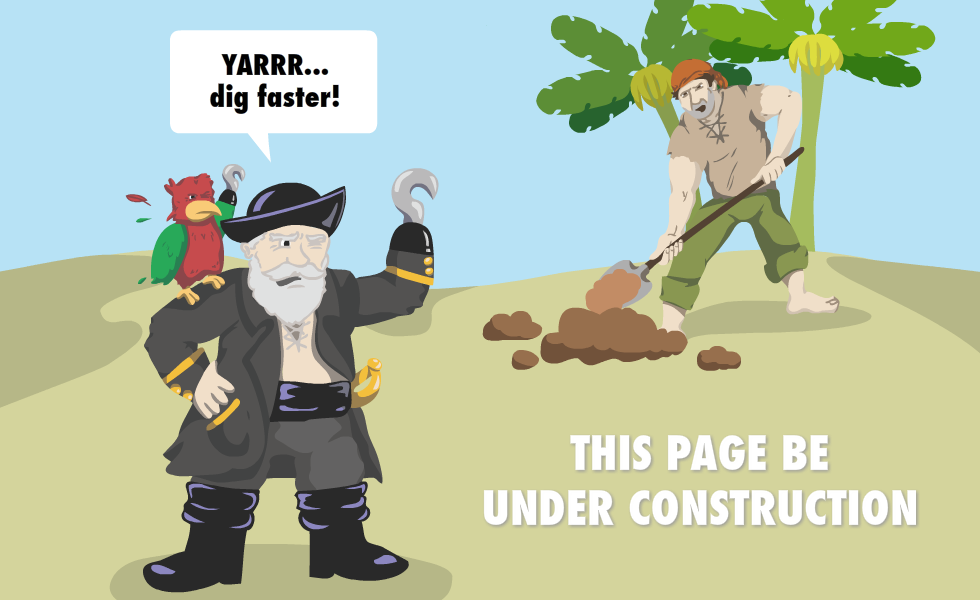
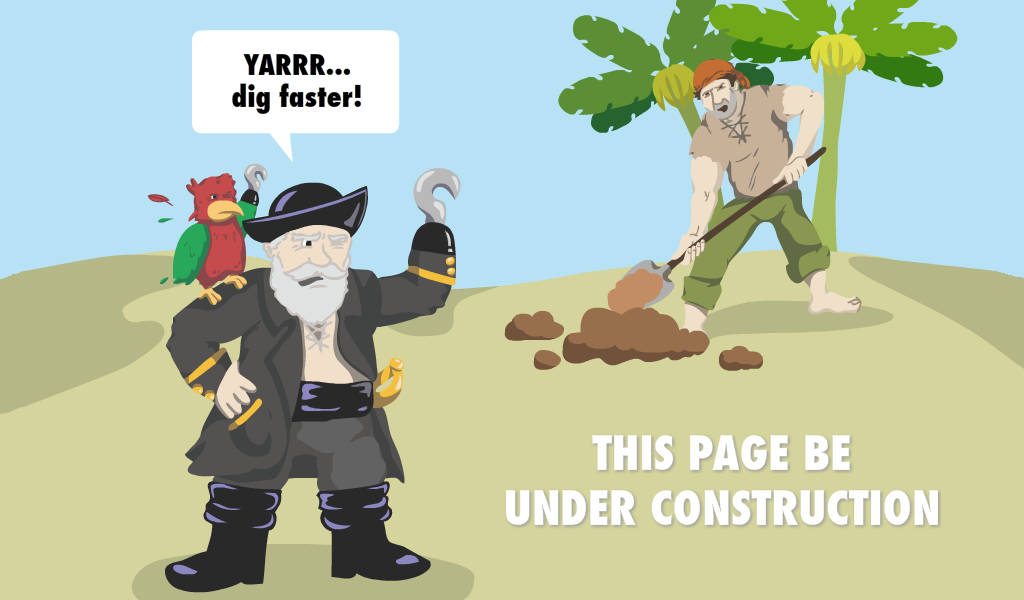
created accordion effect on gallery, edited the piratehook_1 image

diff --git a/js/donnaalmendrala.js b/js/donnaalmendrala.js
@@ -26,9 +26,6 @@ $(function() {
 		
 });
 
-// Future learning: jQuery effects!
-// $('.content > h1').toggle(function() { $(this).next().slideUp() }, function() { $(this).next().slideDown(); }).next().hide();
-
 $(document).ready(function() {
 
 	/* This is basic - uses default settings */
@@ -43,4 +40,17 @@ $(document).ready(function() {
 			});
 		}
 	});
+});
+
+// Future learning: jQuery effects!
+$(function() {
+
+	 $('.expand').click(function() {
+        $(this).toggleClass('open').siblings().removeClass('open').end()
+        .next('.collapse').slideToggle().siblings('.collapse:visible').slideUp();
+        return false;
+    });
+	//$('.content > h1').toggle(function() { $(this).next().slideDown() }, function() { $(this).next().slideUp(); });
+	//$('.content > h1').toggle(function() { $(this).next().slideUp() }, function() { $(this).next().slideDown(); }).next().hide();
+	
 });

diff --git a/index.php b/index.php
@@ -15,21 +15,21 @@ Copyright 2011 Donna Almendrala (see AUTHORS)
 <?php include('includes/navigation.php'); ?>
 
 		<div class="content">
-			<h1>Comics</h1>
-				<div class="subcontents">
-					<h2>Baby</h2>
+			<h1 class="expand">Comics</h1>
+				<div class="subcontents collapse">
+					<h2>"Shower Secrets" from Lies Grown Ups Told Me Anthology (2011)</h2>
+						<div class="thumb showersecrets"><a class="fancybox_gallery" href="images/showersecrets.png" rel="ShowerSecrets" title="Shower Secrets from Lies My Parents Told Me anthology, 2011">Shower Secrets</a></div>
+					<div class="clear"></div>
+					<h2>Baby (2011)</h2>
 						<div class="thumb baby_p1"><a class="fancybox_gallery" href="images/baby_p1.png" rel="baby" title="Baby p1">Baby p1</a></div>
 						<div class="thumb baby_p2"><a class="fancybox_gallery" href="images/baby_p2.png" rel="baby" title="Baby p2">Baby p2</a></div>
 						<div class="thumb baby_p3"><a class="fancybox_gallery" href="images/baby_p3.png" rel="baby" title="Baby p3">Baby p3</a></div>
 						<div class="thumb baby_p4"><a class="fancybox_gallery" href="images/baby_p4.png" rel="baby" title="Baby p4">Baby p4</a></div>
 					<div class="clear"></div>
-					<h2>Shower Secrets</h2>
-						<div class="thumb showersecrets"><a class="fancybox_gallery" href="images/showersecrets.png" rel="ShowerSecrets" title="Shower Secrets from Lies My Parents Told Me anthology, 2011">Shower Secrets</a></div>
-					<div class="clear"></div>
-					<h2>The Concretes</h2>
+					<h2>The Concretes from NoisePop 2011 Concert Comic Reviews</h2>
 					<div class="thumb concretes"><a class="fancybox_gallery" href="images/concretes.png" rel="noisepop2011" title="NoisePop 2011 Concert Review: http://2011.noisepop.com/comics/">NoisePop2011</a></div>
 					<div class="clear"></div>
-					<h2>Solstice Submarine</h2>
+					<h2>Solstice Submarine (2010)</h2>
 					<div class="thumb submarine_p1"><a class="fancybox_gallery" href="images/submarine_p1.png" rel="solsticesub" title="Solstice Submarine page1">Solstice Submarine p1</a></div>
 					<div class="thumb submarine_p2"><a class="fancybox_gallery" href="images/submarine_p2.png" rel="solsticesub" title="Solstice Submarine page2">Solstice Submarine p2</a></div>
 					<div class="thumb submarine_p3"><a class="fancybox_gallery"href="images/submarine_p3.png" rel="solsticesub" title="Solstice Submarine page3">Solstice Submarine p3</a></div>
@@ -38,8 +38,8 @@ Copyright 2011 Donna Almendrala (see AUTHORS)
 					<div class="thumb submarine_p6"><a class="fancybox_gallery" href="images/submarine_p6.png" rel="solsticesub" title="Solstice Submarine page6">Solstice Submarine p6</a></div>
 					<div class="clear"></div>
 				</div>
-			<h1>Illustration</h1>
-				<div class="subcontents">
+			<h1 class="expand">Illustration</h1>
+				<div class="subcontents collapse" style="display: none; ">
 					<div class="thumb thebeatus_flyer"><a class="fancybox_gallery" href="images/thebeatus_flyer.png" rel="illustration" title="The Beatus Concert Flyer">The Beatus Concert Flyer</a></div>
 					<div class="thumb troll_gag"><a class="fancybox_gallery" href="images/troll_gag.png" rel="illustration" title="Old Norse Gag">Troll Gag</a></div>
 					<div class="thumb damonbot"><a class="fancybox_gallery" href="images/damonbot.png" rel="illustration" title="Damon-Bot Avatar">Damon-Bot Avatar</a></div>
@@ -53,8 +53,8 @@ Copyright 2011 Donna Almendrala (see AUTHORS)
 					<div class="thumb bearjordan"><a class="fancybox_gallery" href="images/bearjordan.png" rel="illustration" title="Bear Jordan Desktop Wallpaper">Bear Jordan</a></div>
 					<div class="clear"></div>
 				</div>
-			<h1>Design</h1>
-				<div class="subcontents">
+			<h1 class="expand">Design</h1>
+				<div class="subcontents collapse" style="display: none; ">
 					<h2>Piratehook</h2>
 					<div class="thumb piratehook_1"><a class="fancybox_gallery" href="images/piratehook_1.png" rel="piratehook" title="Static Image for Design of Piratehook.com">Under Construction</a></div>
 					<div class="thumb piratehook_2"><a class="fancybox_gallery" href="images/piratehook_2.png" rel="piratehook" title="Static Image for Design of Piratehook.com/404">404</a></div>
